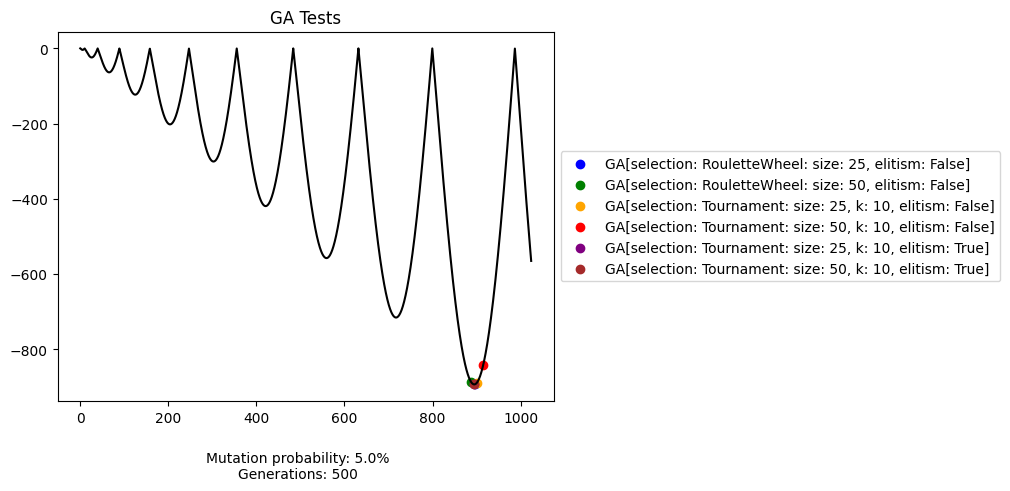
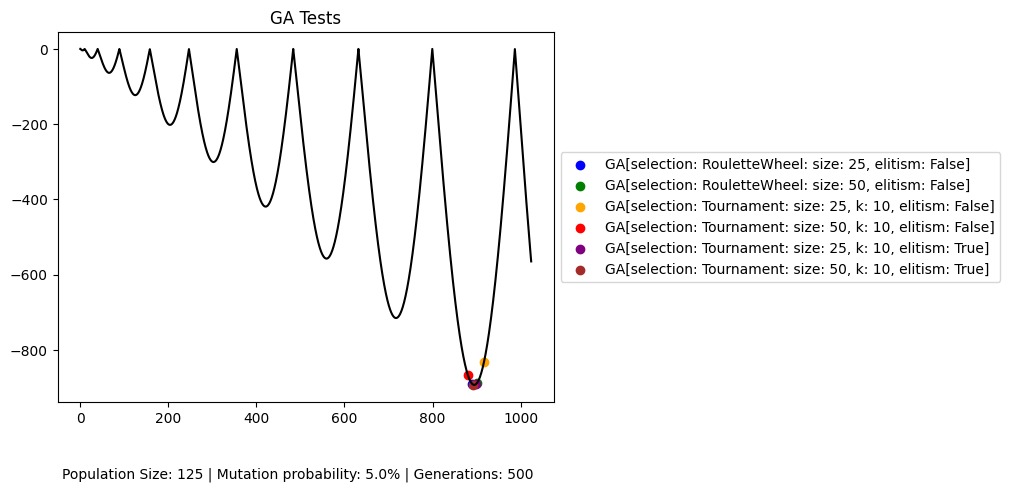
feat: elitism substitutes worst individual

diff --git a/basic-genetic-algorithm/ga_find_min_test.py b/basic-genetic-algorithm/ga_find_min_test.py
@@ -9,7 +9,7 @@ if (__name__ == '__main__'):
     g = lambda x: - np.abs(x * np.sin(np.sqrt(np.abs(x))))
     f = lambda x: - g(x)
 
-    n = 100 # population size
+    n = 125 # population size
 
     class MyChromosome(Chromosome):
 
@@ -98,9 +98,8 @@ if (__name__ == '__main__'):
     y = g(t)
 
     plt.plot(t, y, color='black')
-    description = f"Mutation probability: {mut_prob * 100}%\nGenerations: {generations}"
+    description = f"Population Size: {n} | Mutation probability: {mut_prob * 100}% | Generations: {generations}"
     plt.figtext(0.5, -0.05, description, ha='center', fontsize=10)
     plt.legend([f"{ga}" for ga in ga_models], loc='center left', bbox_to_anchor=(1, 0.5)) 
     plt.title("GA Tests")
     plt.savefig("ga_find_min_test.png", bbox_inches='tight')
-    plt.plot(bbox_inches='tight')

diff --git a/basic-genetic-algorithm/ga.py b/basic-genetic-algorithm/ga.py
@@ -13,9 +13,13 @@ class GA:
 
     def run(self, initial_pop : list[Chromosome], generations: int, mut_prob: float):
         pop : list[Chromosome] = np.array(initial_pop, dtype=Chromosome)
+        best_result = pop[0].value
 
         for _ in range(generations):
             fitness : np.ndarray = np.array([chromosome.fitness() for chromosome in pop])
+
+            if self.elitism:
+                pop[np.argmin(fitness)].value = best_result
 
             best_result = pop[np.argmax(fitness)].value
 
@@ -35,9 +39,6 @@ class GA:
 
                 next_pop.append(child1)
                 next_pop.append(child2)
-
-            if self.elitism:
-                next_pop[0].value = best_result
 
             pop = np.array(next_pop, dtype=Chromosome)
 
